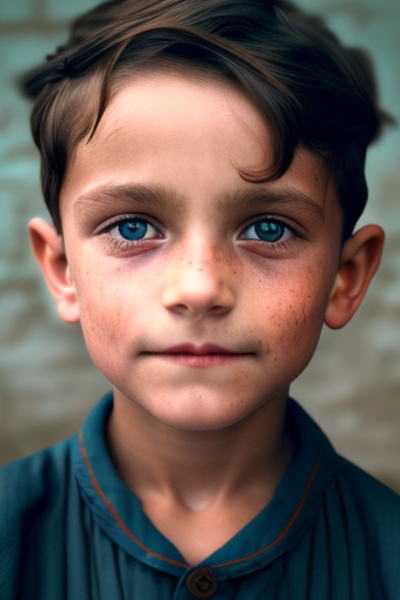
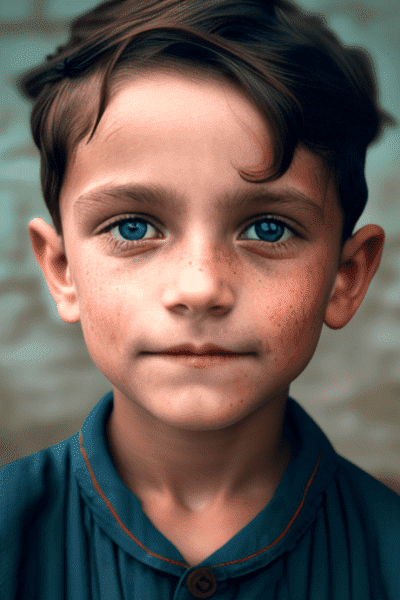
updated optimized pictures

diff --git a/src/App.js b/src/App.js
@@ -1,4 +1,6 @@
 import './App.css';
+import { ToastContainer, toast } from 'react-toastify';
+import 'react-toastify/dist/ReactToastify.css';
 import { ethers } from 'ethers';
 import Hero from './Hero';
 import Hero2 from './Hero2';
@@ -49,6 +51,16 @@ function App() {
         // for next time so that i will connect it automatically.
         Cookies.set('isOnline', JSON.stringify({ value: true }), { expires: 1 / 24 });
       } else {
+        toast.error('Metamask connection failed', {
+          position: "top-right",
+          autoClose: 5000,
+          hideProgressBar: false,
+          closeOnClick: true,
+          pauseOnHover: true,
+          draggable: true,
+          progress: undefined,
+          theme: "light",
+        });
         console.error('meta not installed');
       }
 
@@ -76,6 +88,16 @@ function App() {
       console.log(address);
       const res = await web3Api.contract.minNft(address, uri);
       await res.wait();
+      toast.success('NFT minted successfully', {
+        position: "top-right",
+        autoClose: 5000,
+        hideProgressBar: false,
+        closeOnClick: true,
+        pauseOnHover: true,
+        draggable: true,
+        progress: undefined,
+        theme: "light",
+      });
       const mytoken = await getCurrentTokenId({ contract: web3Api.contract });
       setMyToken(mytoken);
     } catch (e) {
@@ -92,6 +114,19 @@ function App() {
       <Hero web3Api={web3Api} getTokens={getCurrentTokenId} setWeb3Api={setWeb3Api} ini={ini} />
       <Hero2 totalTokens={totalTokens} myToken={myToken} contractAddress={contractAddress} />
       <Hero3 mint={mint} web3Api={web3Api} />
+      <ToastContainer
+        position="top-right"
+        autoClose={5000}
+        hideProgressBar={false}
+        newestOnTop={false}
+        closeOnClick
+        rtl={false}
+        pauseOnFocusLoss
+        draggable
+        pauseOnHover
+        theme="light"
+      />
+      <ToastContainer />
     </div>
   );
 }
